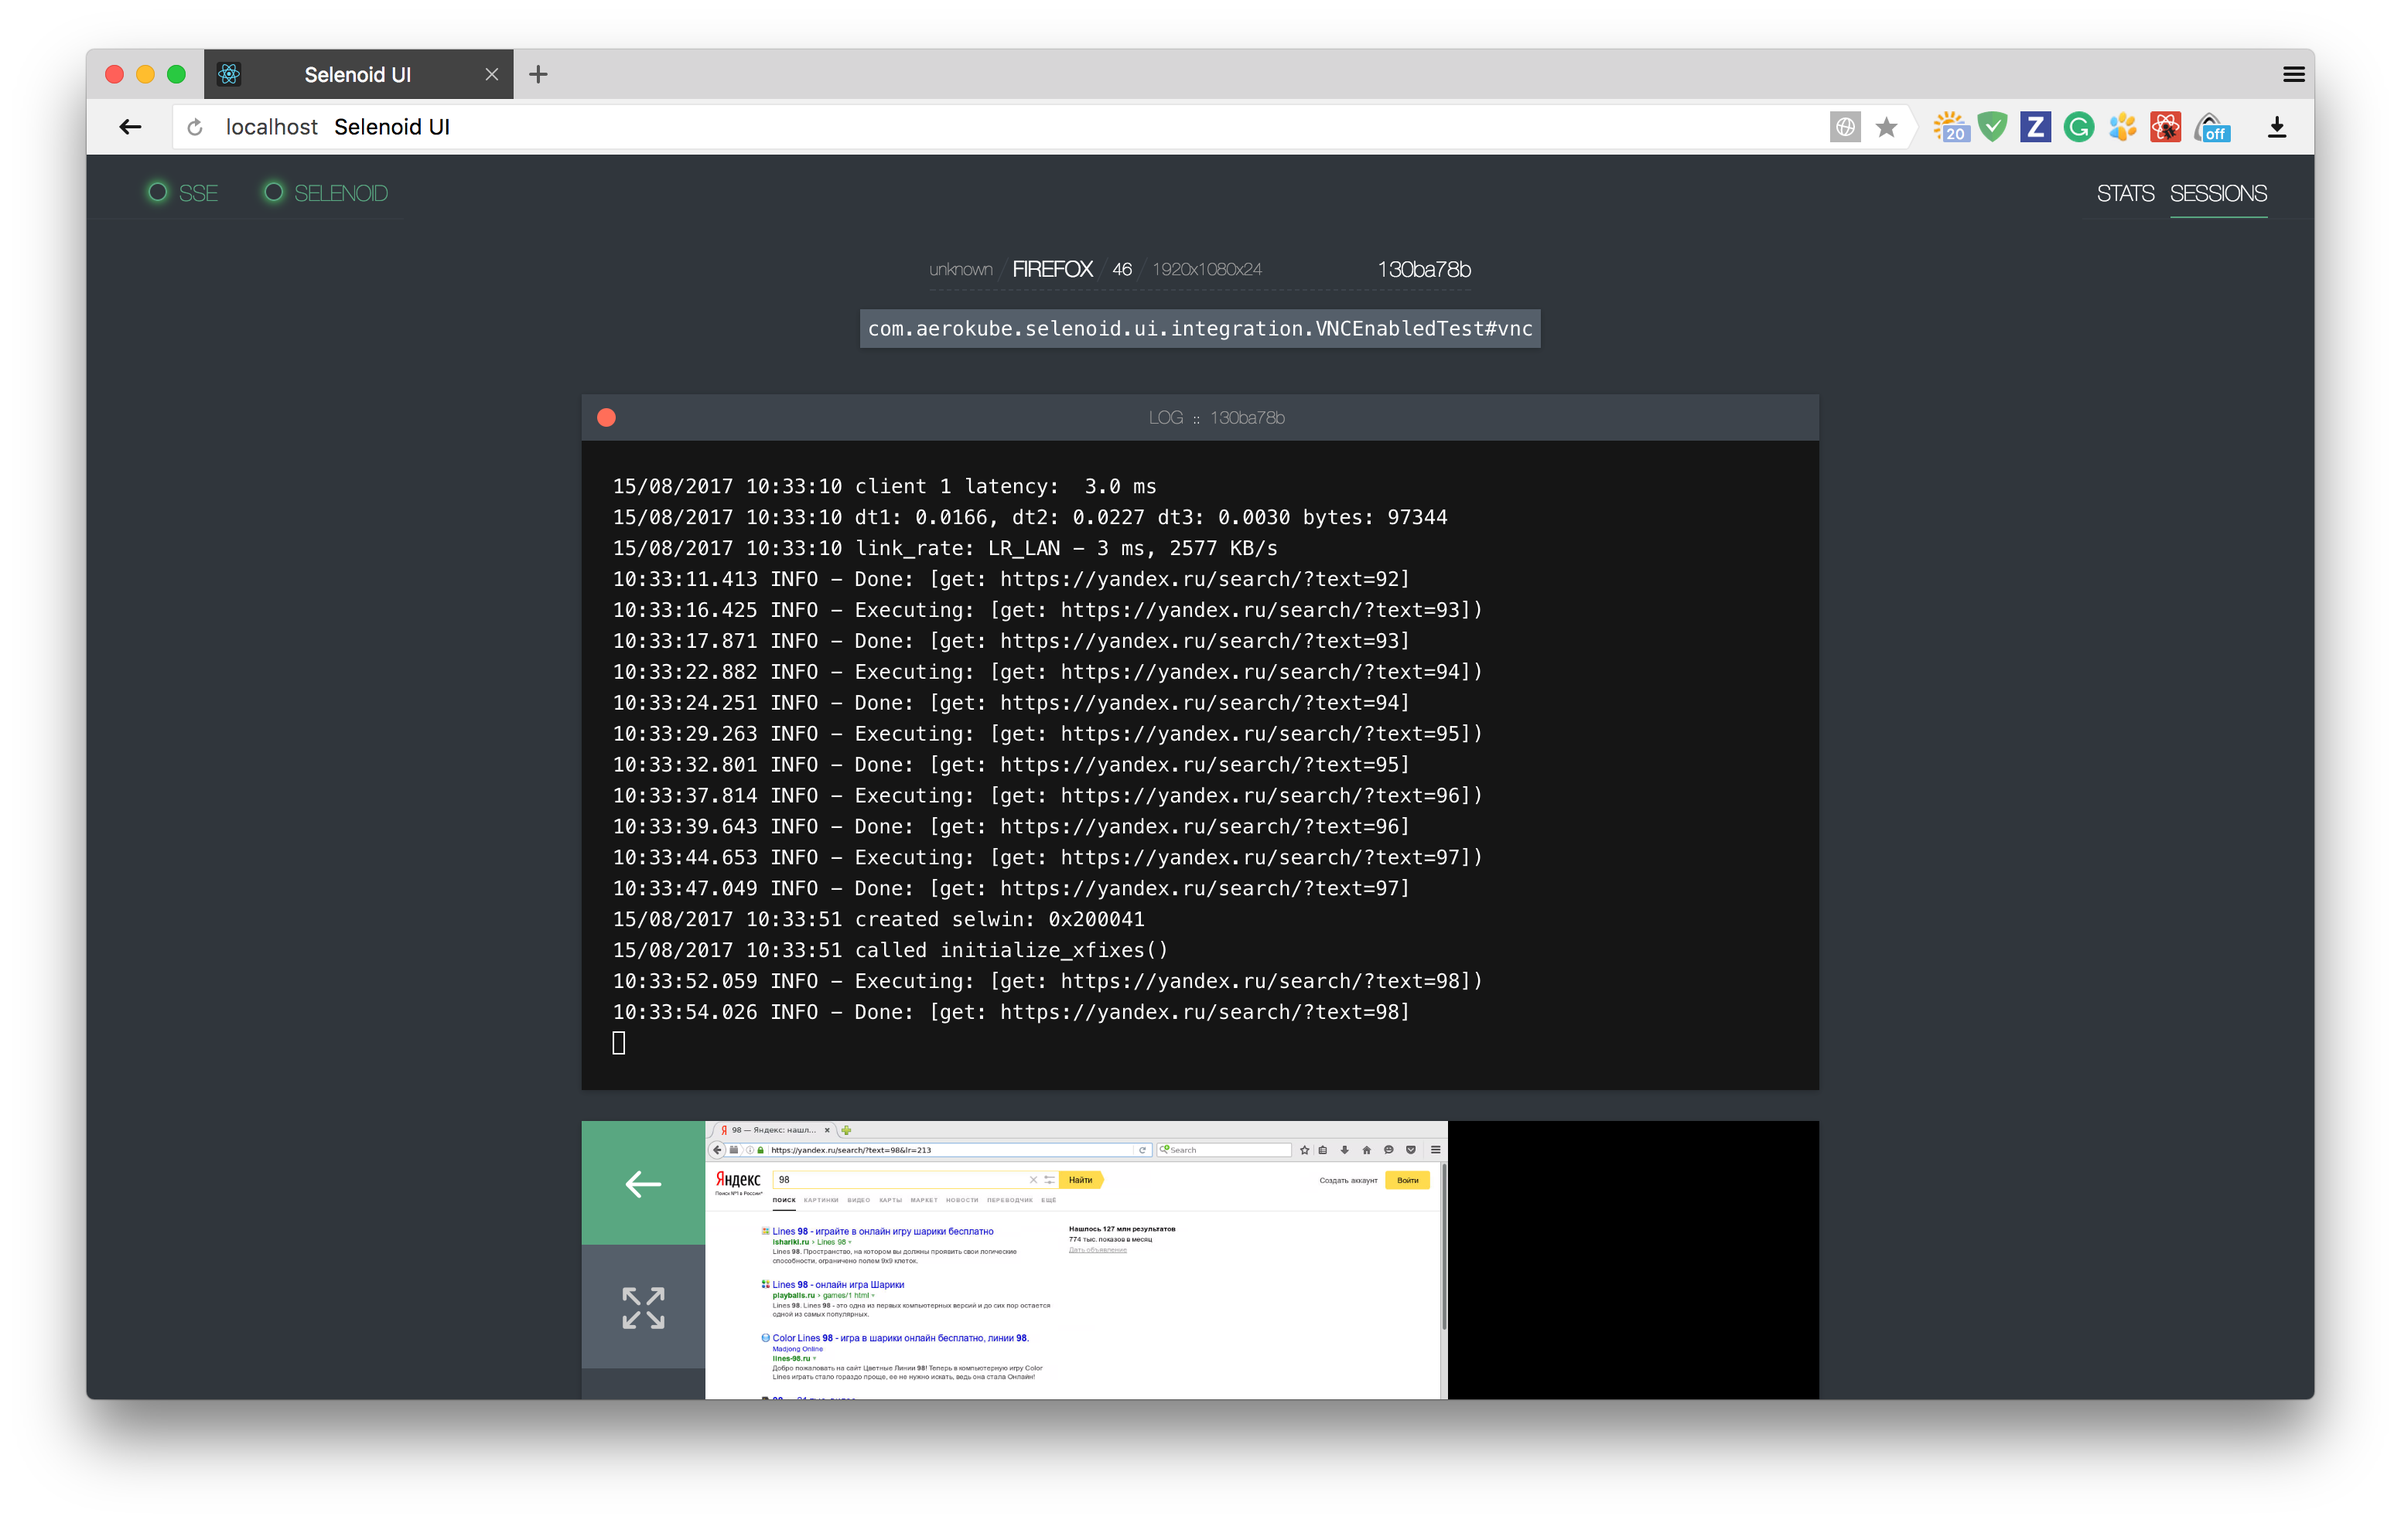
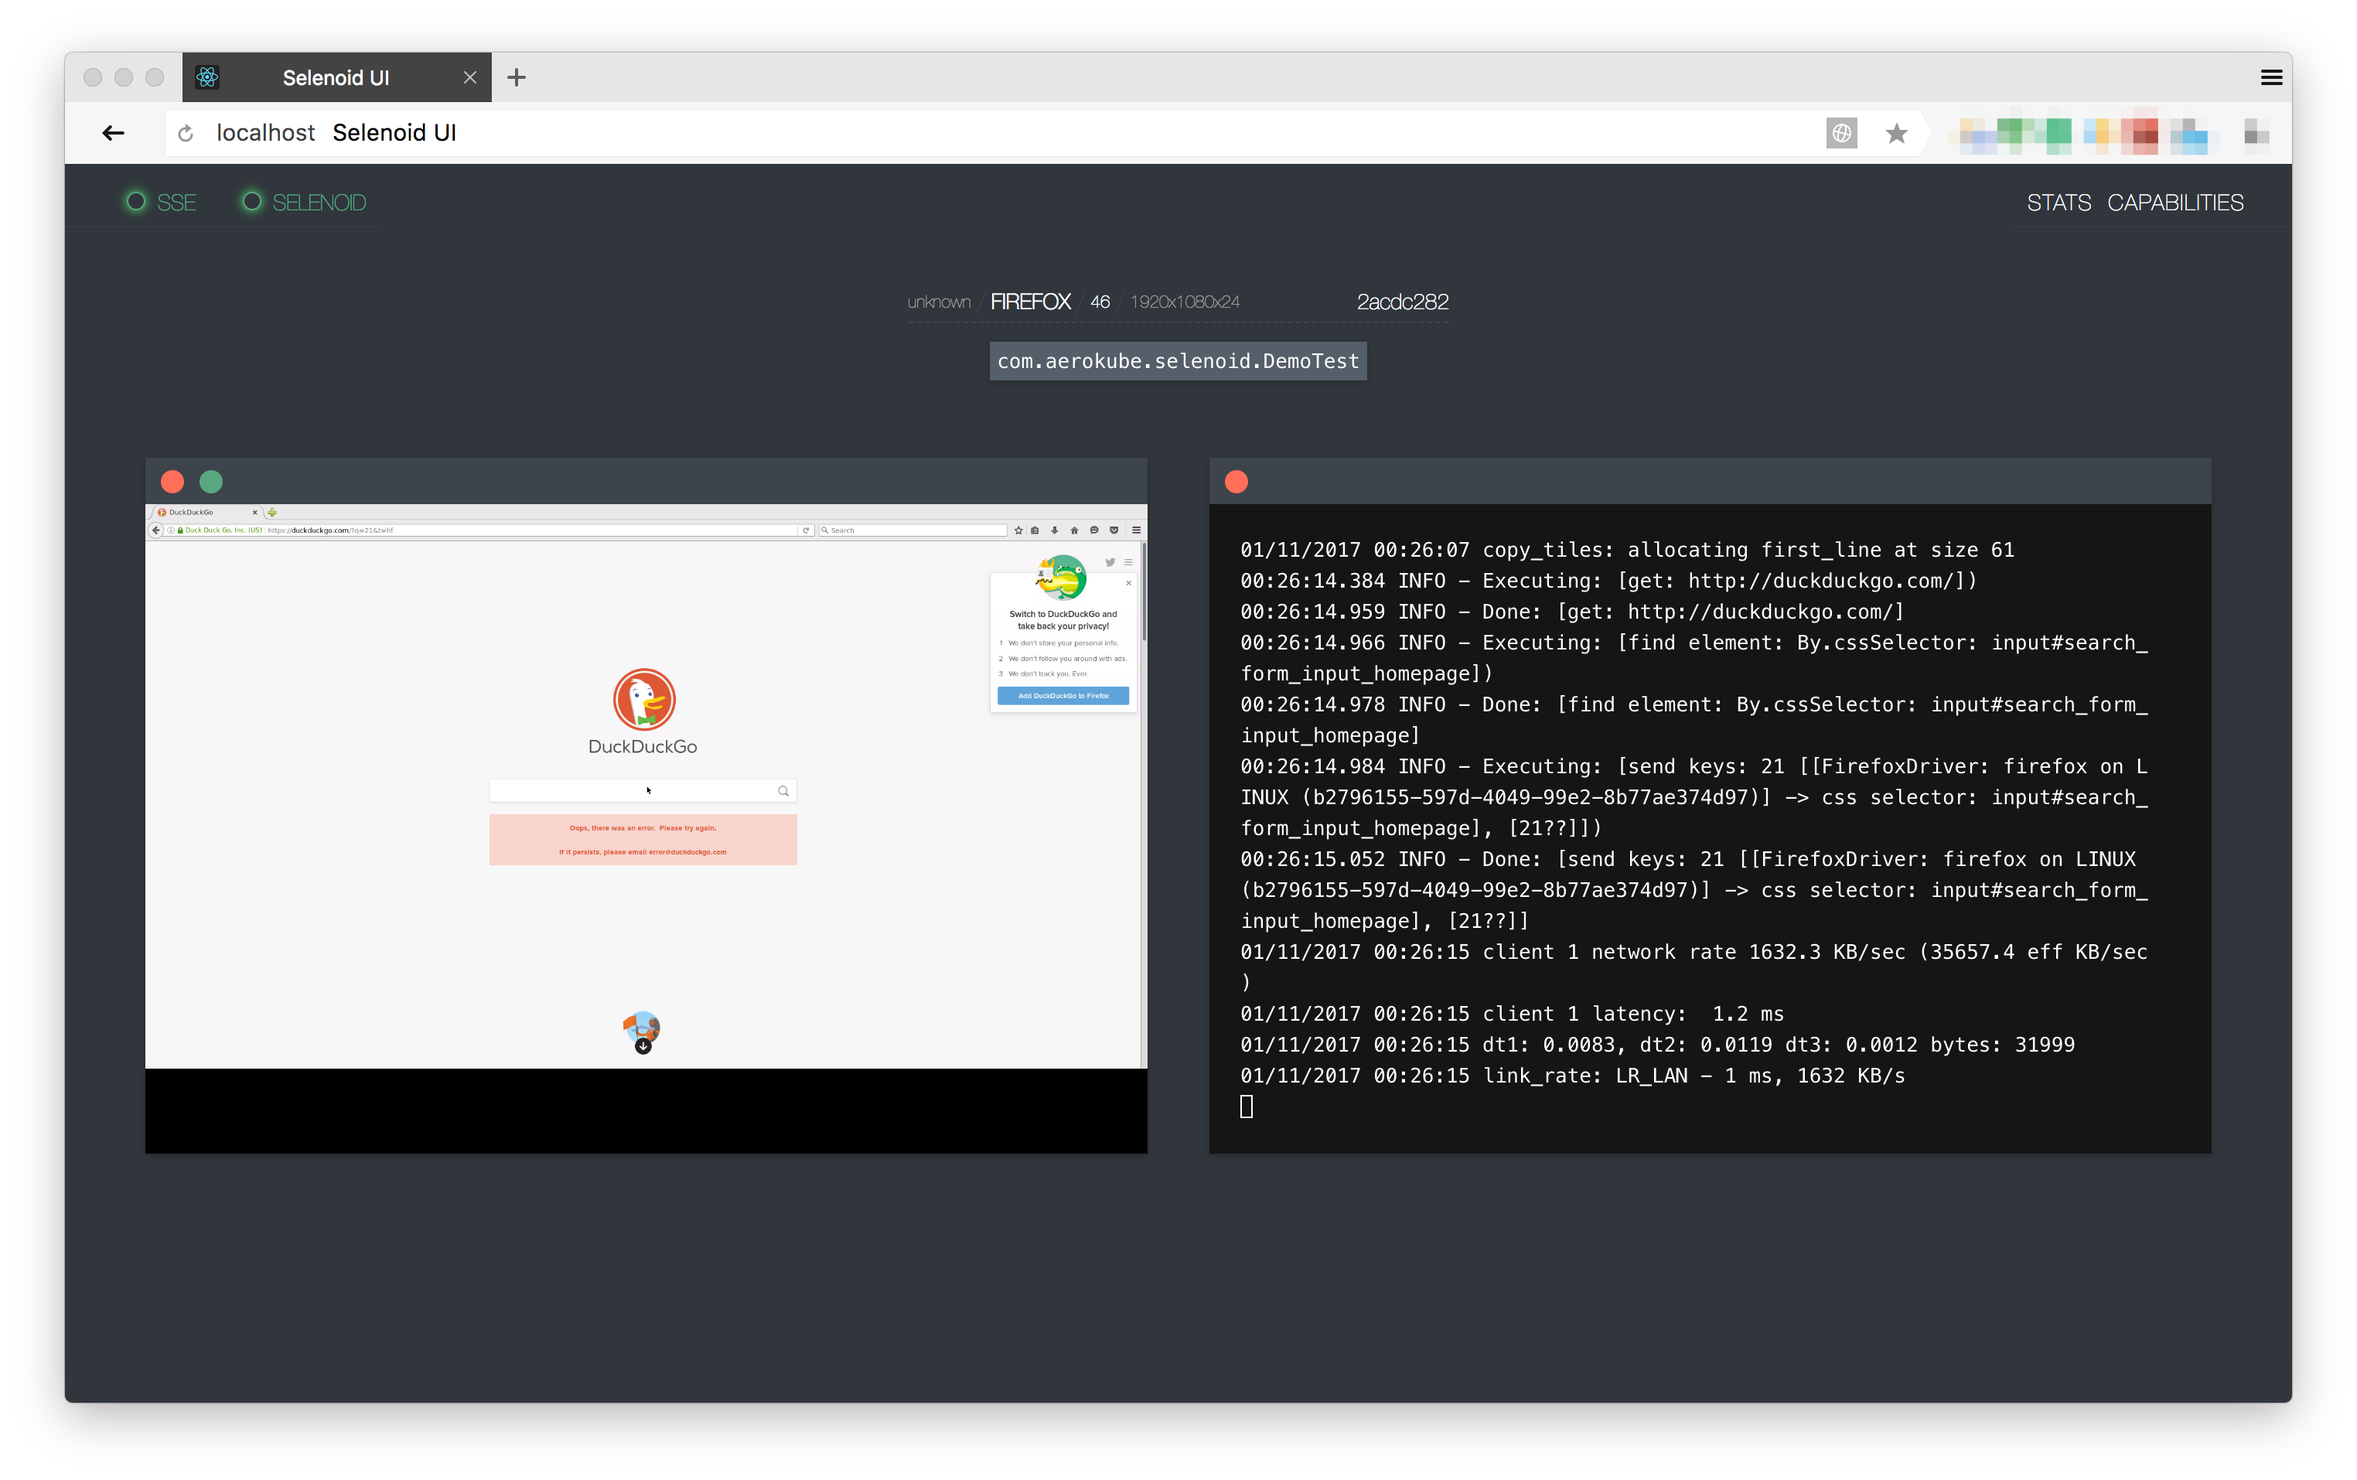
update screenshots

diff --git a/README.md b/README.md
@@ -8,7 +8,7 @@ Simple status page with UI updates by SSE,
 backed by constant polling of status handle
 of [selenoid](https://github.com/aerokube/selenoid) on small go backend.
 
-![ui](docs/img/stats.png)
+![ui](docs/img/stats-sessions.png)
 
 ## Usage
 
